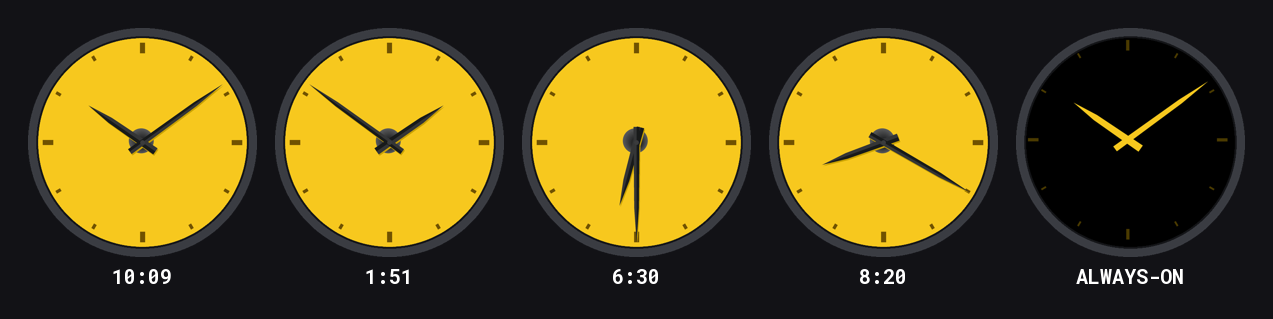
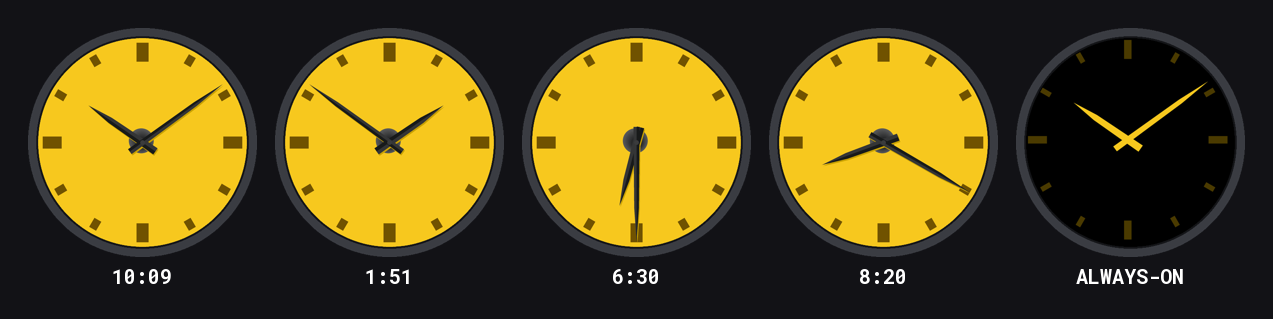
Disco: take the hour marks to 26/17 px
Marks now read as deliberate batons rather than hairlines. Widening alone turned
them into squares, so lengthen them by the same measure, and draw each as a
fillPolygon rectangle since line caps at a 26 px pen width are device-dependent.

Claude-Session: https://claude.ai/code/session_01Spqi8874cLT5cy9qNW1EXh

diff --git a/Disco/preview/preview_render.py b/Disco/preview/preview_render.py
@@ -30,9 +30,9 @@ W_MIN_TAIL, W_MIN_BODY, K_SH_MIN = 13, 10, 0.66
 W_HOUR_TAIL, W_HOUR_BODY, K_SH_HOUR = 16, 13, 0.60
 SPEC_MIN = (W_MIN_TAIL, W_MIN_BODY, K_SH_MIN)
 SPEC_HOUR = (W_HOUR_TAIL, W_HOUR_BODY, K_SH_HOUR)
-TICK_W_Q, TICK_W = 11, 7
-TICK_W_Q_AOD, TICK_W_AOD = 7, 4
-TICK_R_IN_Q, TICK_R_IN, TICK_R_OUT = 0.855, 0.905, 0.955
+TICK_W_Q, TICK_W = 26, 17
+TICK_W_Q_AOD, TICK_W_AOD = 16, 11
+TICK_R_IN_Q, TICK_R_IN, TICK_R_OUT = 0.775, 0.855, 0.955
 R_DISC, R_PIVOT = 27, 5
 SHADE_X, SHADE_Y = 2, 3
 
@@ -62,15 +62,21 @@ def draw_hand(d, cx, cy, deg, length, spec):
 
 
 def draw_ticks(d, cx, cy, color, w_quarter, w_other):
+    """Cada marca es un rectangulo, igual que en el .mc."""
     r = S * K / 2
     r2 = r * TICK_R_OUT
     for i in range(12):
         a = math.radians(i * 30 - 90)
-        ca, sa = math.cos(a), math.sin(a)
+        ux, uy = math.cos(a), math.sin(a)
+        px, py = -uy, ux
         quarter = (i % 3 == 0)
         r1 = r * (TICK_R_IN_Q if quarter else TICK_R_IN)
-        d.line([(cx + r1 * ca, cy + r1 * sa), (cx + r2 * ca, cy + r2 * sa)],
-               fill=color, width=(w_quarter if quarter else w_other) * K)
+        hw = (w_quarter if quarter else w_other) * K / 2.0
+        ix, iy = cx + ux * r1, cy + uy * r1
+        ox, oy = cx + ux * r2, cy + uy * r2
+        d.polygon([(ix + px * hw, iy + py * hw), (ox + px * hw, oy + py * hw),
+                   (ox - px * hw, oy - py * hw), (ix - px * hw, iy - py * hw)],
+                  fill=color)
 
 
 def draw_disc(d, cx, cy):

diff --git a/Disco/README.md b/Disco/README.md
@@ -52,23 +52,29 @@ Para volver a la aguja original del SVG, pon `W_*_BODY` a 1 y `K_SH_*` a 0.
 ## Las marcas horarias
 
 Van emparejadas con las agujas: al ensanchar el cuerpo de la aguja, unas marcas
-finas dejan el dial descompensado. Pasaron de 5/3 px a **11/7 px**, y las de
-12, 3, 6 y 9 son además **el doble de largas**, para que sirvan de referencia
-sin tener que contarlas.
+finas dejan el dial descompensado. Acabaron en **26/17 px**, y las de 12, 3, 6
+y 9 son además **más largas**, para que sirvan de referencia sin tener que
+contarlas.
 
 | Constante | 12, 3, 6, 9 | Las otras ocho |
 |---|---|---|
-| `TICK_W_Q` / `TICK_W` (despierto) | 11 | 7 |
-| `TICK_W_Q_AOD` / `TICK_W_AOD` (reposo) | 7 | 4 |
-| `TICK_R_IN_Q` / `TICK_R_IN` (dónde empieza) | 0,855 | 0,905 |
+| `TICK_W_Q` / `TICK_W` (despierto) | 26 | 17 |
+| `TICK_W_Q_AOD` / `TICK_W_AOD` (reposo) | 16 | 11 |
+| `TICK_R_IN_Q` / `TICK_R_IN` (dónde empieza) | 0,775 | 0,855 |
 
 Todas acaban en `TICK_R_OUT` = 0,955 del radio.
+
+**Ancho y largo van juntos.** Con 26 px de ancho y la longitud anterior las
+marcas se volvían cuadrados y dejaban de leerse como marcas; hubo que alargarlas
+en la misma medida. Y a estos grosores tampoco vale `drawLine` con pincel ancho,
+porque el remate de la línea depende del dispositivo: cada marca es un
+rectángulo dibujado con `fillPolygon`, igual que las agujas.
 
 ## Always-On
 
 El fondo ámbar encendería el **100%** de la pantalla y el límite del AMOLED son
 el **10%** de píxeles. Así que en reposo la esfera **se invierte**: fondo negro
-y las mismas agujas en ámbar, con las marcas atenuadas. Medido: **2,89%** de
+y las mismas agujas en ámbar, con las marcas atenuadas. Medido: **4,78%** de
 píxeles encendidos, de sobra. El conjunto se desplaza unos píxeles cada minuto
 para repartir el desgaste.
 

diff --git a/README.md b/README.md
@@ -91,7 +91,7 @@ concéntricos en el disco y una sombra desplazada 2-3 px.
 
 Su **Always-On invierte la esfera**: el fondo ámbar encendería el 100% de la
 pantalla y el techo es el 10%, así que en reposo pasa a fondo negro con las
-agujas en ámbar (2,89% de píxeles). Detalle en `Disco/README.md`.
+agujas en ámbar (4,78% de píxeles). Detalle en `Disco/README.md`.
 
 ## Cómo compilar una
 
